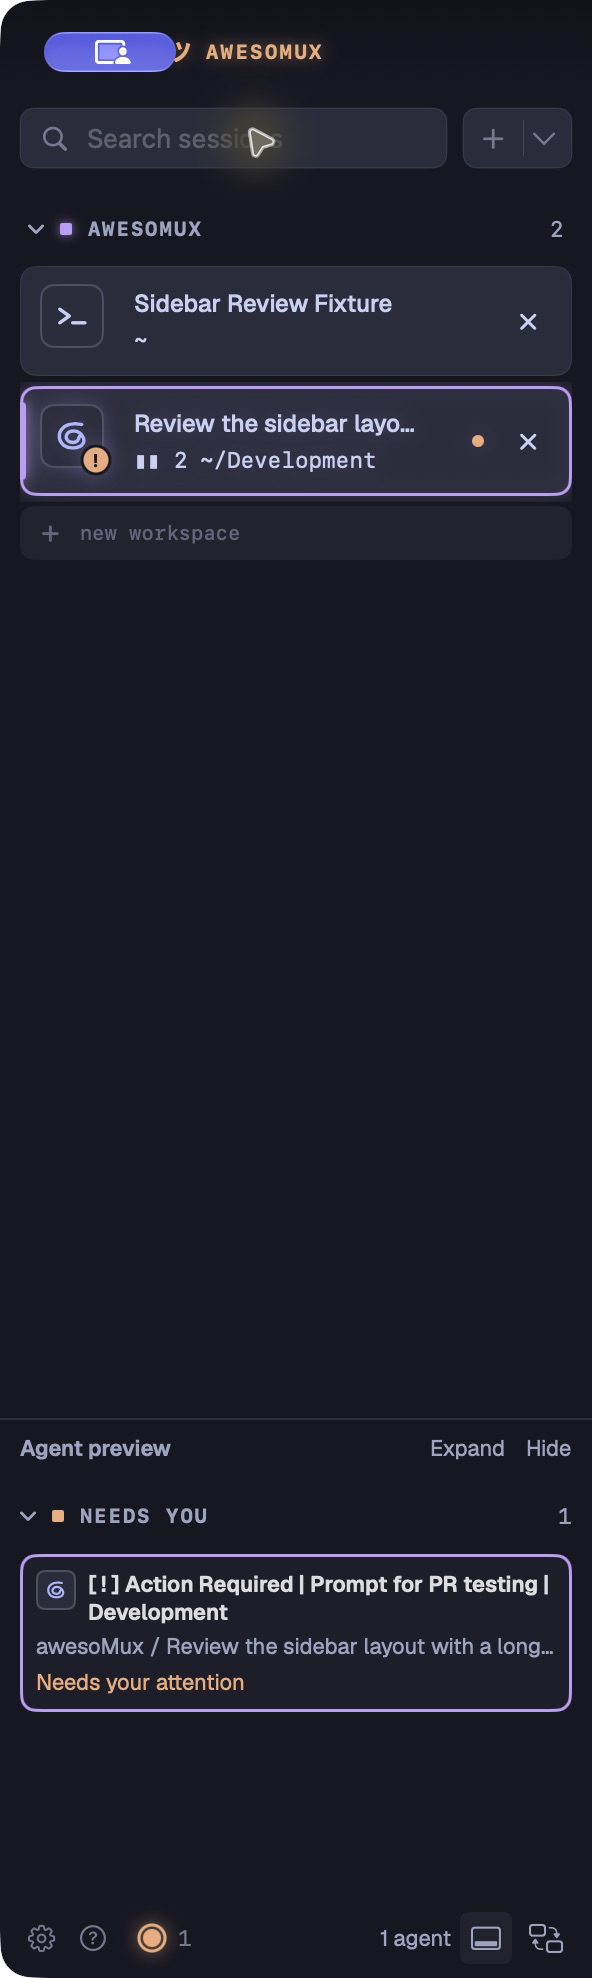
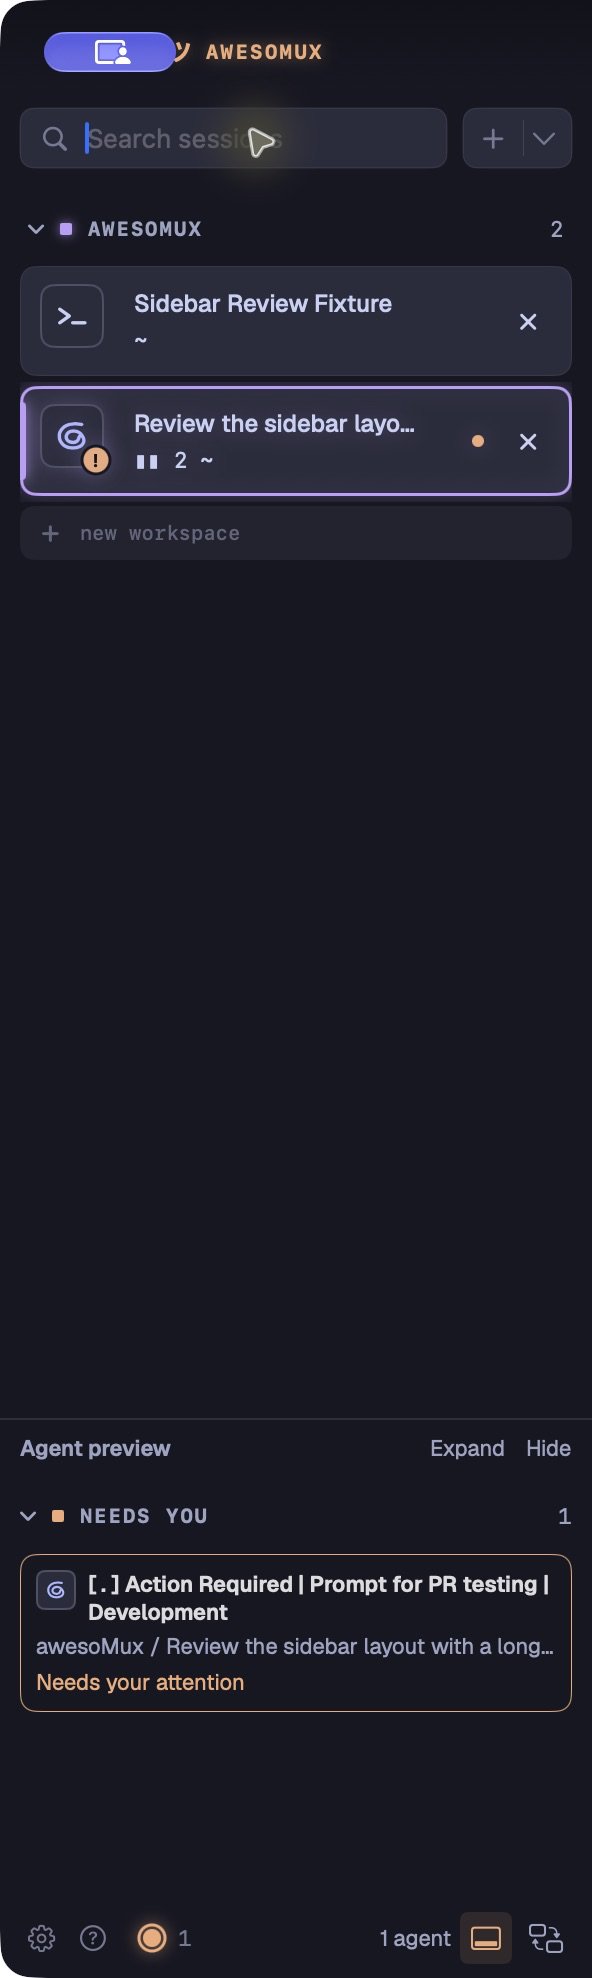
style(sidebar): soften active preview controls

diff --git a/Sources/awesoMux/Views/SidebarView.swift b/Sources/awesoMux/Views/SidebarView.swift
@@ -79,6 +79,8 @@ struct SidebarView: View {
     @State private var activityPanelOpen = false
     @State private var collapsedAgentSections = Set<AgentActivityRoster.Section>()
     @State private var collapsedPreviewAgentSections = Set<AgentActivityRoster.Section>()
+    @Environment(\.awAccent) private var footerAccent
+    @Environment(\.colorSchemeContrast) private var footerContrast
     @State private var agentPreviewOpen = false
     @State private var workspacePreviewOpen = false
     @State private var sessionPendingRevealInWorkspaces: TerminalSession.ID?
@@ -648,7 +650,9 @@ struct SidebarView: View {
             agentPreviewOpen: agentPreviewOpen,
             workspacePreviewOpen: workspacePreviewOpen,
             activityPanelOpen: activityPanelOpen,
-            collapsedPreviewAgentSections: collapsedPreviewAgentSections
+            collapsedPreviewAgentSections: collapsedPreviewAgentSections,
+            footerAccent: footerAccent.accent,
+            footerIncreasedContrast: footerContrast == .increased
         )
         let activitySection = SidebarActivitySection(
             sessionStore: sessionStore,
@@ -1915,6 +1919,8 @@ struct SidebarActivityInvalidationKey: Equatable {
     let agentPreviewOpen: Bool
     let workspacePreviewOpen: Bool
     let collapsedPreviewAgentSections: Set<AgentActivityRoster.Section>
+    let footerAccent: AwAccent
+    let footerIncreasedContrast: Bool
 
     init(
         groups: [SessionGroup],
@@ -1934,7 +1940,9 @@ struct SidebarActivityInvalidationKey: Equatable {
         agentPreviewOpen: Bool = false,
         workspacePreviewOpen: Bool = false,
         activityPanelOpen: Bool = false,
-        collapsedPreviewAgentSections: Set<AgentActivityRoster.Section> = []
+        collapsedPreviewAgentSections: Set<AgentActivityRoster.Section> = [],
+        footerAccent: AwAccent = .peach,
+        footerIncreasedContrast: Bool = false
     ) {
         self.groups = groups
         self.pinnedSessionIDs = pinnedSessionIDs
@@ -1954,6 +1962,8 @@ struct SidebarActivityInvalidationKey: Equatable {
         self.agentPreviewOpen = agentPreviewOpen
         self.workspacePreviewOpen = workspacePreviewOpen
         self.collapsedPreviewAgentSections = collapsedPreviewAgentSections
+        self.footerAccent = footerAccent
+        self.footerIncreasedContrast = footerIncreasedContrast
     }
 
     static func == (lhs: Self, rhs: Self) -> Bool {
@@ -1979,6 +1989,8 @@ struct SidebarActivityInvalidationKey: Equatable {
             lhs.agentPreviewOpen == rhs.agentPreviewOpen,
             lhs.workspacePreviewOpen == rhs.workspacePreviewOpen,
             lhs.collapsedPreviewAgentSections == rhs.collapsedPreviewAgentSections,
+            lhs.footerAccent == rhs.footerAccent,
+            lhs.footerIncreasedContrast == rhs.footerIncreasedContrast,
             lhs.groups.count == rhs.groups.count
         else { return false }
 
@@ -2159,7 +2171,9 @@ private struct SidebarActivitySection: View, Equatable {
                 previewAvailable: !invalidationKey.workspaceSearchActive,
                 onTogglePreview: togglePreview,
                 focusRequestID: footerFocusRequestID,
-                focusSwitch: footerFocusSwitch
+                focusSwitch: footerFocusSwitch,
+                accent: invalidationKey.footerAccent,
+                increasedContrast: invalidationKey.footerIncreasedContrast
             )
         }
         .onChange(of: invalidationKey.displayMode) { _, mode in

diff --git a/Sources/awesoMux/Views/SidebarStatusFooter.swift b/Sources/awesoMux/Views/SidebarStatusFooter.swift
@@ -18,6 +18,8 @@ struct SidebarStatusFooter: View {
     let onTogglePreview: () -> Void
     let focusRequestID: UUID
     let focusSwitch: Bool
+    let accent: AwAccent
+    let increasedContrast: Bool
 
     private enum Control: Hashable { case preview, sidebar }
     @FocusState private var focusedControl: Control?
@@ -79,10 +81,15 @@ struct SidebarStatusFooter: View {
                             .frame(width: 26, height: 26)
                     }
                     .buttonStyle(.plain)
-                    .foregroundStyle(Color.aw.railText)
-                    .background(previewOpen ? Color.aw.surface.hover : Color.clear, in: RoundedRectangle(cornerRadius: 4))
+                    .foregroundStyle(previewOpen ? Color.aw.accentOnChrome(accent) : Color.aw.railText)
+                    .background(
+                        previewOpen ? Color.aw.accentOnChrome(accent).opacity(0.12) : Color.clear,
+                        in: RoundedRectangle(cornerRadius: 4)
+                    )
                     .focusable()
                     .focused($focusedControl, equals: .preview)
+                    .focusEffectDisabled()
+                    .overlay { focusRing(.preview) }
                     .onKeyPress(keys: [.space, .return], phases: .down) { press in
                         guard press.modifiers.subtracting(.capsLock).isEmpty else { return .ignored }
                         onTogglePreview()
@@ -107,6 +114,8 @@ struct SidebarStatusFooter: View {
                 .foregroundStyle(Color.aw.railText)
                 .focusable()
                 .focused($focusedControl, equals: .sidebar)
+                .focusEffectDisabled()
+                .overlay { focusRing(.sidebar) }
                 .onKeyPress(keys: [.space, .return], phases: .down) { press in
                     guard press.modifiers.subtracting(.capsLock).isEmpty else { return .ignored }
                     onToggleActivityPanel(nil)
@@ -132,6 +141,20 @@ struct SidebarStatusFooter: View {
         activityPanelOpen
             ? String(localized: "Show Workspaces Sidebar", comment: "Switch sidebar destination")
             : String(localized: "Show Agents Sidebar", comment: "Switch sidebar destination")
+    }
+
+    @ViewBuilder
+    private func focusRing(_ control: Control) -> some View {
+        if focusedControl == control {
+            RoundedRectangle(cornerRadius: 4)
+                .inset(by: 1)
+                .stroke(
+                    Color.aw.accentOnChrome(accent),
+                    lineWidth: AwFocusRing.lineWidth(increasedContrast: increasedContrast)
+                )
+                .allowsHitTesting(false)
+                .accessibilityHidden(true)
+        }
     }
 
     private var previewLabel: String {

diff --git a/Tests/awesoMuxTests/SidebarSearchInteractionTests.swift b/Tests/awesoMuxTests/SidebarSearchInteractionTests.swift
@@ -11,7 +11,8 @@ struct SidebarSearchInteractionTests {
     @Test(arguments: [
         "same", "title", "kind", "execution", "selection", "display", "pinned", "motion", "closed split", "open split", "search",
         "closed color",
-        "open color", "tinted contrast", "collapsed agents", "agent preview", "workspace preview", "sidebar mode",
+        "open color", "tinted contrast", "collapsed agents", "agent preview", "workspace preview", "sidebar mode", "footer accent",
+        "footer contrast",
     ])
     func activityInvalidation(scenario: String) throws {
         let first = TerminalPane(title: "Before", workingDirectory: "/tmp/first", agentKind: .claudeCode, executionPlan: .local)
@@ -56,7 +57,9 @@ struct SidebarSearchInteractionTests {
             workspaceSearchActive: scenario == "search", tintedHighContrast: scenario == "tinted contrast",
             collapsedAgentSections: scenario == "collapsed agents" ? [.idleWaiting] : [],
             agentPreviewOpen: scenario == "agent preview", workspacePreviewOpen: scenario == "workspace preview",
-            activityPanelOpen: scenario == "sidebar mode")
+            activityPanelOpen: scenario == "sidebar mode",
+            footerAccent: scenario == "footer accent" ? .mauve : .peach,
+            footerIncreasedContrast: scenario == "footer contrast")
         #expect((before == after) == ["same", "title", "closed split", "closed color"].contains(scenario))
     }
 
